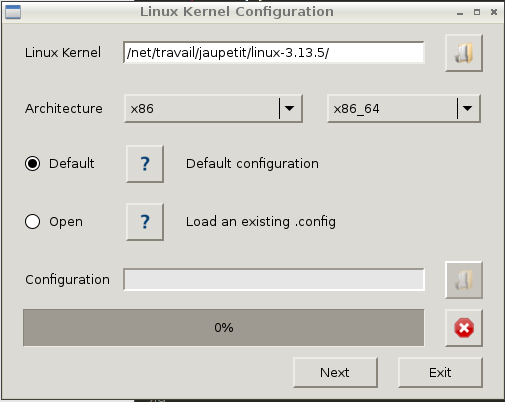
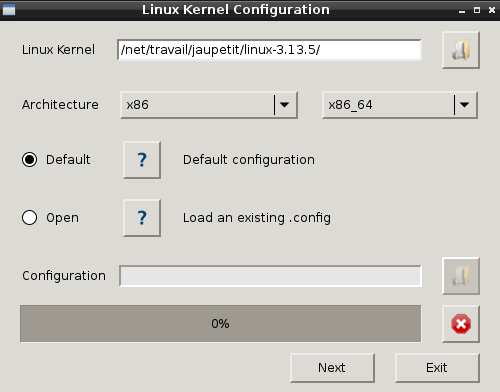
Modification de l'image de l'application -- MAj rapport - test jordan

diff --git a/doc/rapport.tex b/doc/rapport.tex
@@ -1078,7 +1078,6 @@ fonctionnalités attendues.
 	et l'architecture qu'il désire. Il peut également charger un fichier de 
 	configuration existant.
 
-  % === TODO === changer l'image
 	\begin{figure}[H]
 		\includegraphics[scale=0.7]{./illustrations/screen_configuration_interface.png}
 		\centering
@@ -1093,7 +1092,6 @@ fonctionnalités attendues.
 	\\
 
 	\pagebreak	
-
 	\item Évolution de l'interface d'affichage des options
 	\\
 
@@ -1117,7 +1115,7 @@ fonctionnalités attendues.
 	\item Évolution de l'interface de recherche des options
 	\\
 
-	L'onglet \"Search\" permet à l'utilisateur d'afficher la liste complète 
+	L'onglet "Search" permet à l'utilisateur d'afficher la liste complète 
 	des options sous la forme d'un arbre ou une liste plus réduite en 
 	saisissant une chaine à rechercher.
 
@@ -1129,7 +1127,7 @@ fonctionnalités attendues.
 	\end{figure}
 
 	Dans les outils existants ainsi que dans les premiers prototypes, il est seulement possible de faire une recherche sur les noms des options. 
-	Dorénavant, l'utilisateur peut cliquer le menu \"Search\" en haut de la 
+	Dorénavant, l'utilisateur peut cliquer le menu "Search" en haut de la 
 	fenêtre pour sélectionner où il souhaite rechercher. Il peut chercher dans 
 	les noms, les descriptions et les aides des options.
 	\\
@@ -1142,7 +1140,7 @@ fonctionnalités attendues.
 	À l'origine, il y avait un bouton sur l'interface permettant d'ouvrir 
 	une fenêtre pour résoudre les conflits. Il y avait un second bouton relatif 
 	à l'ajout de Tags. Il a également disparu, car les tags sont uniquement 
-	gérés par un site. 
+	gérés par notre site.  
 
 	*** (FIXME VERIFIER que l'on a évoqué le site auparavant)
     % === TODO ===
@@ -1168,7 +1166,7 @@ fonctionnalités attendues.
 
     En réponses à l'évolution de nos besoins, nous avons conçu un site sous 
     la forme d'une base de données communautaires. A l'image du site 
-    Wikipédia, les informations présentes sur notre site sont gérées par 
+    Wikipédia, les informations présentes sur ce site sont gérées par 
     les utilisateurs.\\
 
     En effet il est possible de : \\
@@ -1427,13 +1425,27 @@ plus grand que -2 et moins grand que le nombre total d'option\\
 
 \subsubsection{\texttt{test\_get\_index\_menu\_option}}
 
-A COMPLETER PAR JORDAN
-% === TODO ===
+Dans l'onglet section de notre application, nous affichons une liste des 
+menus se trouvant en haut de l'arborescence. C'est à dire que nous n'affichons 
+aucun menus qui sont dans des menus. Lorsque l'utilisateur navigue dans les 
+options nous mettons en surbrillance le menu dans lequel se trouve l'option. 
+Ce test permet de vérifier la plage des valeurs de retour de la fonction. 
+Si la fonction renvoie 0 c'est que l'option ne se trouve pas dans un menu 
+sinon la fonction renvoie l'indice du menu oû se trouve l'option. Cette 
+indice atteint au maximum le nombre de menus de haut niveau.
 
 \subsubsection{\texttt{test\_get\_all\_items}}
 
-A COMPLETER PAR JORDAN
-% === TODO ===
+Cette fonction permet de convertir le résultat d'une autre fonction 
+"get\_top\_level\_items()" qui retourne la liste des items de haut niveau. 
+C'est à dire que cette fonction parcours l'ensemble des options en mémoire 
+et lorsqu'elle tombe sur un "Menu" par exemple, elle le retourne plutôt que 
+de retourner les options qui sont à l'intérieur. La fonction 
+"get\_all\_items()" permet de récupérer uniquement les options et les choix 
+en parcourant en profondeur tous les items. Les menus et les commentaires 
+sont enlevés par cette fonction. Ce test vérifie qu'il ne reste plus que 
+des "symbols" et des "choice" dans la liste retournée.
+
 
 \subsubsection{test parcours de la liste des options}
 
